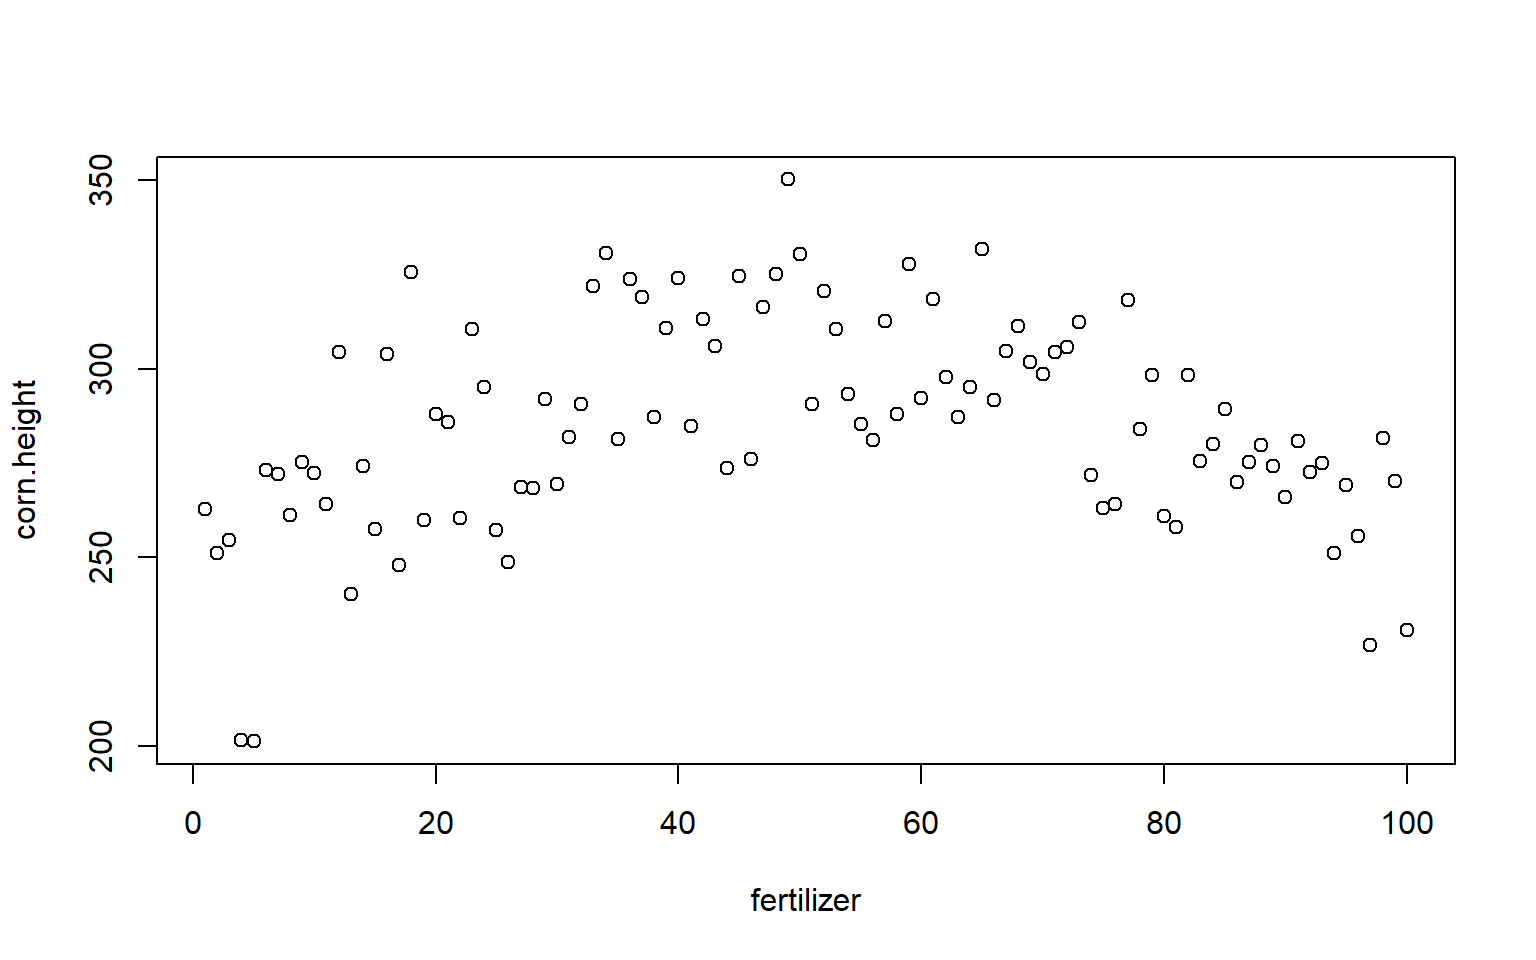
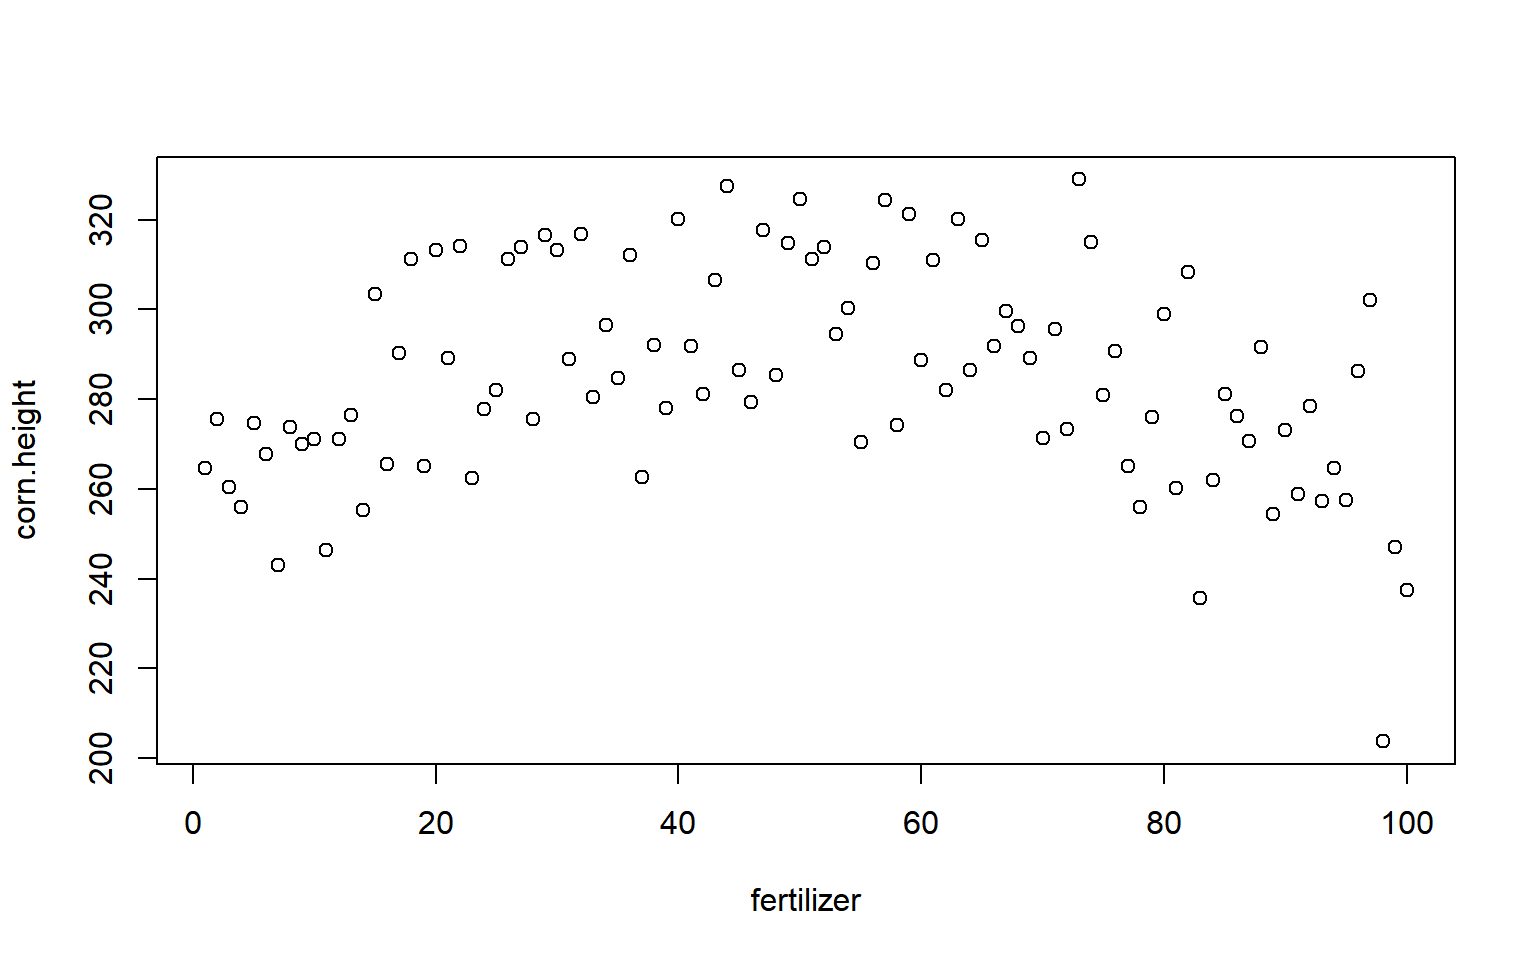
p-061

diff --git a/p-061-plot-basics.html b/p-061-plot-basics.html
@@ -208,15 +208,14 @@ $(document).ready(function () {
 <div id="TOC">
 <ul>
 <li><a href="#the-plot-function"><span class="toc-section-number">1</span> The plot() Function</a><ul>
-<li><a href="#key-concepts"><span class="toc-section-number">1.1</span> Key Concepts</a></li>
-<li><a href="#plot-arguments"><span class="toc-section-number">1.2</span> plot() Arguments</a></li>
-<li><a href="#the-default-scatterplot"><span class="toc-section-number">1.3</span> The Default Scatterplot</a></li>
-<li><a href="#titles"><span class="toc-section-number">1.4</span> Titles</a></li>
-<li><a href="#type-of-plot"><span class="toc-section-number">1.5</span> Type of Plot</a></li>
-<li><a href="#shape-of-points"><span class="toc-section-number">1.6</span> Shape of Points</a></li>
-<li><a href="#size-of-points"><span class="toc-section-number">1.7</span> Size of Points</a></li>
-<li><a href="#colors"><span class="toc-section-number">1.8</span> Colors</a></li>
-<li><a href="#looking-ahead"><span class="toc-section-number">1.9</span> Looking Ahead</a></li>
+<li><a href="#plot-arguments"><span class="toc-section-number">1.1</span> plot() Arguments</a></li>
+<li><a href="#the-default-scatterplot"><span class="toc-section-number">1.2</span> The Default Scatterplot</a></li>
+<li><a href="#titles"><span class="toc-section-number">1.3</span> Titles</a></li>
+<li><a href="#type-of-plot"><span class="toc-section-number">1.4</span> Type of Plot</a></li>
+<li><a href="#shape-of-points"><span class="toc-section-number">1.5</span> Shape of Points</a></li>
+<li><a href="#size-of-points"><span class="toc-section-number">1.6</span> Size of Points</a></li>
+<li><a href="#colors"><span class="toc-section-number">1.7</span> Colors</a></li>
+<li><a href="#looking-ahead"><span class="toc-section-number">1.8</span> Looking Ahead</a></li>
 </ul></li>
 </ul>
 </div>
@@ -224,14 +223,38 @@ $(document).ready(function () {
 <script src="https://cdn.datacamp.com/datacamp-light-latest.min.js"></script>
 <div id="the-plot-function" class="section level1">
 <h1><span class="header-section-number">1</span> The plot() Function</h1>
+<div class="tip">
+<h3 id="key-concepts"><span class="header-section-number">1</span> Key Concepts</h3>
+<p>We can create highly-customized scatterplots by mastering a few arguments:</p>
+<ul>
+<li>xlim, ylim - min and max values for the x and y plot range displayed<br />
+</li>
+<li>frame.plot - change to FALSE to suppress a box drawn around the plot</li>
+<li>col - the colors of the plotting points<br />
+</li>
+<li>type - the style of plot: points, lines, or both</li>
+<li>pch - the shape of the plotting points</li>
+<li>cex - the size of the plotting points</li>
+<li>main - the title of the plot</li>
+<li>xlab, ylab - axes labels<br />
+</li>
+<li>cex.lab - the size of axes labels</li>
+</ul>
+<p>These are some of the most useful arguments for the plot() function, but only a small sample of settings that you can change.</p>
+<p>Try <strong>help( “par” )</strong> for a more extensive list.</p>
+<p><br>
+<br></p>
+</div>
+<p><br>
+<br></p>
 <div class="figure"><span id="fig:unnamed-chunk-3"></span>
 <img src="figures/anatomy_of_a_graph1.png" alt="The core graphics package allows you to control every element of a visualization." width="80%" />
 <p class="caption">
 Figure 1.1: The core graphics package allows you to control every element of a visualization.
 </p>
 </div>
-<div id="key-concepts" class="section level2">
-<h2><span class="header-section-number">1.1</span> Key Concepts</h2>
+<p><br>
+<br></p>
 <p>Mastering a few arguments in the <strong>plot()</strong> function allows for a lot of customization.</p>
 <pre class="r"><code>plot(
   
@@ -250,16 +273,15 @@ Figure 1.1: The core graphics package allows you to control every element of a v
   cex.lab=1.5            # aspect ratio for axes labels
   
   )</code></pre>
-</div>
+<p><img src="p-061-plot-basics_files/figure-html/unnamed-chunk-5-1.png" width="768" /></p>
 <div id="plot-arguments" class="section level2">
-<h2><span class="header-section-number">1.2</span> plot() Arguments</h2>
+<h2><span class="header-section-number">1.1</span> plot() Arguments</h2>
 <p>This lecture is a brief introduction to the plot() function in R, the work horse of the graphics package. We will introduce the flexibility of the fully-customizable graphics engine in R through the demonstration of some useful arguments.</p>
 <p>To demonstrate these arguments we will use a simple dataset from a hypothetical farming experiment that examines the relationship between levels of new fertilizer under development and the height of the corn. To identify the optimal dosage of fertilizer to use, the experiment applies different levels to separate fields of corn, then measures the average final corn height at each dosage. The fields are scattered across three farms, and “moisture” represents the average Volumetric Water Content of the soil in each field.</p>
 <p>You can load it as follows:</p>
 <pre class="r"><code>source( &quot;https://raw.githubusercontent.com/DS4PS/Data-Science-Class/master/DATA/corn_stalks.R&quot; )</code></pre>
-<table style="width:75%;">
+<table style="width:62%;">
 <colgroup>
-<col width="12%" />
 <col width="18%" />
 <col width="19%" />
 <col width="15%" />
@@ -267,7 +289,6 @@ Figure 1.1: The core graphics package allows you to control every element of a v
 </colgroup>
 <thead>
 <tr class="header">
-<th align="center"> </th>
 <th align="center">fertilizer</th>
 <th align="center">corn.height</th>
 <th align="center">moisture</th>
@@ -276,74 +297,64 @@ Figure 1.1: The core graphics package allows you to control every element of a v
 </thead>
 <tbody>
 <tr class="odd">
-<td align="center"><strong>74</strong></td>
-<td align="center">74</td>
-<td align="center">271.8</td>
-<td align="center">0.6507</td>
-<td align="center">A</td>
-</tr>
-<tr class="even">
-<td align="center"><strong>62</strong></td>
-<td align="center">62</td>
-<td align="center">297.9</td>
-<td align="center">0.04027</td>
-<td align="center">C</td>
-</tr>
-<tr class="odd">
-<td align="center"><strong>45</strong></td>
-<td align="center">45</td>
-<td align="center">324.5</td>
-<td align="center">0.5317</td>
-<td align="center">A</td>
-</tr>
-<tr class="even">
-<td align="center"><strong>26</strong></td>
-<td align="center">26</td>
-<td align="center">248.9</td>
-<td align="center">0.4743</td>
-<td align="center">A</td>
-</tr>
-<tr class="odd">
-<td align="center"><strong>3</strong></td>
-<td align="center">3</td>
-<td align="center">254.6</td>
-<td align="center">0.7559</td>
+<td align="center">76</td>
+<td align="center">256</td>
+<td align="center">0.47</td>
 <td align="center">C</td>
 </tr>
 <tr class="even">
-<td align="center"><strong>91</strong></td>
-<td align="center">91</td>
-<td align="center">280.7</td>
-<td align="center">0.8079</td>
-<td align="center">C</td>
-</tr>
-<tr class="odd">
-<td align="center"><strong>96</strong></td>
-<td align="center">96</td>
-<td align="center">255.8</td>
-<td align="center">0.89</td>
-<td align="center">C</td>
-</tr>
-<tr class="even">
-<td align="center"><strong>90</strong></td>
-<td align="center">90</td>
-<td align="center">266.1</td>
-<td align="center">0.5377</td>
-<td align="center">A</td>
-</tr>
-<tr class="odd">
-<td align="center"><strong>75</strong></td>
-<td align="center">75</td>
-<td align="center">263</td>
-<td align="center">0.468</td>
-<td align="center">A</td>
-</tr>
-<tr class="even">
-<td align="center"><strong>35</strong></td>
-<td align="center">35</td>
-<td align="center">281.4</td>
-<td align="center">0.3609</td>
+<td align="center">22</td>
+<td align="center">300</td>
+<td align="center">0.5</td>
 <td align="center">B</td>
+</tr>
+<tr class="odd">
+<td align="center">25</td>
+<td align="center">323</td>
+<td align="center">0.6</td>
+<td align="center">C</td>
+</tr>
+<tr class="even">
+<td align="center">29</td>
+<td align="center">287</td>
+<td align="center">0.4</td>
+<td align="center">C</td>
+</tr>
+<tr class="odd">
+<td align="center">69</td>
+<td align="center">306</td>
+<td align="center">0.51</td>
+<td align="center">A</td>
+</tr>
+<tr class="even">
+<td align="center">24</td>
+<td align="center">258</td>
+<td align="center">0.76</td>
+<td align="center">C</td>
+</tr>
+<tr class="odd">
+<td align="center">60</td>
+<td align="center">311</td>
+<td align="center">0.07</td>
+<td align="center">B</td>
+</tr>
+<tr class="even">
+<td align="center">7</td>
+<td align="center">257</td>
+<td align="center">0.47</td>
+<td align="center">A</td>
+</tr>
+<tr class="odd">
+<td align="center">81</td>
+<td align="center">247</td>
+<td align="center">0.57</td>
+<td align="center">A</td>
+</tr>
+<tr class="even">
+<td align="center">92</td>
+<td align="center">241</td>
+<td align="center">0.74</td>
+<td align="center">C</td>
 </tr>
 </tbody>
 </table>
@@ -358,14 +369,14 @@ eyJsYW5ndWFnZSI6InIiLCJwcmVfZXhlcmNpc2VfY29kZSI6InNvdXJjZSggXCJodHRwczovL3Jhdy5n
 </div>
 </div>
 <div id="the-default-scatterplot" class="section level2">
-<h2><span class="header-section-number">1.3</span> The Default Scatterplot</h2>
+<h2><span class="header-section-number">1.2</span> The Default Scatterplot</h2>
 <p>The default <strong>plot()</strong> function requires an x-variable and y-variable and will create a scatterplot, adding axes and a title:</p>
 <pre class="r"><code>plot( x=fertilizer, y=corn.height )</code></pre>
-<p><img src="p-061-plot-basics_files/figure-html/unnamed-chunk-10-1.png" width="768" /></p>
+<p><img src="p-061-plot-basics_files/figure-html/unnamed-chunk-11-1.png" width="768" /></p>
 <p>Ok, so let’s improve upon this a bit. You can use the following arguments to customize the plot:</p>
 </div>
 <div id="titles" class="section level2">
-<h2><span class="header-section-number">1.4</span> Titles</h2>
+<h2><span class="header-section-number">1.3</span> Titles</h2>
 <p>We can add better labels and a title with <strong>xlab=</strong>, <strong>ylab=</strong>, and <strong>main=</strong>.</p>
 <pre class="r"><code>plot( 
       x=fertilizer, y=corn.height,
@@ -373,7 +384,7 @@ eyJsYW5ndWFnZSI6InIiLCJwcmVfZXhlcmNpc2VfY29kZSI6InNvdXJjZSggXCJodHRwczovL3Jhdy5n
       ylab=&quot;Corn Height (cm)&quot;,
       main=&quot;Relationship Between Fertilizer Intensity and Corn Growth&quot;    
     )</code></pre>
-<p><img src="p-061-plot-basics_files/figure-html/unnamed-chunk-11-1.png" width="768" /></p>
+<p><img src="p-061-plot-basics_files/figure-html/unnamed-chunk-12-1.png" width="768" /></p>
 <p>We can also change their size with <strong>cex.lab=</strong> to control the size of the axes labels, and <strong>cex.main=</strong> to control the size of the title.</p>
 <p>Note that all of the <strong>cex</strong> arguments are aspect ratios, meaning that the default value of 1 represents 100% and all other argument values are in relation to this default. A value of 2 means to increase the title to 200% of the size, an argument of 0.5 shrinks the title to half the original size.</p>
 <pre class="r"><code>plot( 
@@ -384,10 +395,10 @@ eyJsYW5ndWFnZSI6InIiLCJwcmVfZXhlcmNpc2VfY29kZSI6InNvdXJjZSggXCJodHRwczovL3Jhdy5n
       cex.lab=2,               # double the size of the axis labels
       col.lab=&quot;steelblue&quot;      # change color of axis labels
     )</code></pre>
-<p><img src="p-061-plot-basics_files/figure-html/unnamed-chunk-13-1.png" width="480" /><img src="p-061-plot-basics_files/figure-html/unnamed-chunk-13-2.png" width="480" /><img src="p-061-plot-basics_files/figure-html/unnamed-chunk-13-3.png" width="480" /></p>
+<p><img src="p-061-plot-basics_files/figure-html/unnamed-chunk-14-1.png" width="480" /><img src="p-061-plot-basics_files/figure-html/unnamed-chunk-14-2.png" width="480" /><img src="p-061-plot-basics_files/figure-html/unnamed-chunk-14-3.png" width="480" /></p>
 </div>
 <div id="type-of-plot" class="section level2">
-<h2><span class="header-section-number">1.5</span> Type of Plot</h2>
+<h2><span class="header-section-number">1.4</span> Type of Plot</h2>
 <p>We can plot points, lines, or some combination of lines and points using the <strong>type=</strong> argument:</p>
 <ul>
 <li>“l” for lines</li>
@@ -406,12 +417,12 @@ eyJsYW5ndWFnZSI6InIiLCJwcmVfZXhlcmNpc2VfY29kZSI6InNvdXJjZSggXCJodHRwczovL3Jhdy5n
       col.axis=&quot;gray60&quot;,
       frame.plot=F
     )</code></pre>
-<p><img src="p-061-plot-basics_files/figure-html/unnamed-chunk-15-1.png" width="960" /></p>
+<p><img src="p-061-plot-basics_files/figure-html/unnamed-chunk-16-1.png" width="960" /></p>
 </div>
 <div id="shape-of-points" class="section level2">
-<h2><span class="header-section-number">1.6</span> Shape of Points</h2>
+<h2><span class="header-section-number">1.5</span> Shape of Points</h2>
 <p>The argument <strong>pch</strong> determines the shape of the plot points. The numeric values 0 to 25 represent different default shapes. We can also use any number, letter, or symbol as a plotting shape.</p>
-<p><img src="p-061-plot-basics_files/figure-html/unnamed-chunk-16-1.png" width="768" /></p>
+<p><img src="p-061-plot-basics_files/figure-html/unnamed-chunk-17-1.png" width="768" /></p>
 <p>Note that shapes 0 to 14 are hollow, 15 to 20 are solid, and 21 to 25 can also plot a background color specified by the <strong>bg=</strong> argument.</p>
 <pre class="r"><code>plot( 
       x=fertilizer, y=corn.height,
@@ -421,10 +432,10 @@ eyJsYW5ndWFnZSI6InIiLCJwcmVfZXhlcmNpc2VfY29kZSI6InNvdXJjZSggXCJodHRwczovL3Jhdy5n
       main=&quot;pch=23&quot;, cex.main=1.5,
       pch=23, col=&quot;red&quot;, bg=&quot;green&quot;
     )</code></pre>
-<p><img src="p-061-plot-basics_files/figure-html/unnamed-chunk-17-1.png" width="768" /></p>
+<p><img src="p-061-plot-basics_files/figure-html/unnamed-chunk-18-1.png" width="768" /></p>
 </div>
 <div id="size-of-points" class="section level2">
-<h2><span class="header-section-number">1.7</span> Size of Points</h2>
+<h2><span class="header-section-number">1.6</span> Size of Points</h2>
 <p>We change the size of points using the <strong>cex=</strong> argument (pronounced “chex”). Similar to the title cex, it is an aspect ratio so cex=2 increases the size of the plotting points to 200% of the original, and cex=0.5 scales the size down to half of the original size.</p>
 <pre class="r"><code>plot( 
       x=fertilizer, y=corn.height,
@@ -435,7 +446,7 @@ eyJsYW5ndWFnZSI6InIiLCJwcmVfZXhlcmNpc2VfY29kZSI6InNvdXJjZSggXCJodHRwczovL3Jhdy5n
       main=&quot;cex=2&quot;, cex.main=2,
       frame.plot=FALSE
     )</code></pre>
-<p><img src="p-061-plot-basics_files/figure-html/unnamed-chunk-19-1.png" width="480" /><img src="p-061-plot-basics_files/figure-html/unnamed-chunk-19-2.png" width="480" /><img src="p-061-plot-basics_files/figure-html/unnamed-chunk-19-3.png" width="480" /></p>
+<p><img src="p-061-plot-basics_files/figure-html/unnamed-chunk-20-1.png" width="480" /><img src="p-061-plot-basics_files/figure-html/unnamed-chunk-20-2.png" width="480" /><img src="p-061-plot-basics_files/figure-html/unnamed-chunk-20-3.png" width="480" /></p>
 <p>The <strong>cex=</strong> argument is also useful for incorporating a third numeric variable into the analysis. For example, perhaps we want to include the average moisture levels of the soil for each field. When we use a numeric vector like this with the <strong>cex=</strong> argument, instead of a single constant, the plot will adjust the size of observation based upon its measured moisture level. Since moisture values are between 0 and 1, I have scaled them by 3 to ensure the points are large enough to see.</p>
 <pre class="r"><code>plot( 
       x=fertilizer, y=corn.height,
@@ -446,10 +457,10 @@ eyJsYW5ndWFnZSI6InIiLCJwcmVfZXhlcmNpc2VfY29kZSI6InNvdXJjZSggXCJodHRwczovL3Jhdy5n
       ylab=&quot;Corn Height (cm)&quot;,
       main=&quot;Relationship Between Fertilizer Intensity and Corn Growth&quot;
     )</code></pre>
-<p><img src="p-061-plot-basics_files/figure-html/unnamed-chunk-20-1.png" width="768" /></p>
+<p><img src="p-061-plot-basics_files/figure-html/unnamed-chunk-21-1.png" width="768" /></p>
 </div>
 <div id="colors" class="section level2">
-<h2><span class="header-section-number">1.8</span> Colors</h2>
+<h2><span class="header-section-number">1.7</span> Colors</h2>
 <p>The argument <strong>col=</strong> determines the color of plot points. To see a list of preset options check out:</p>
 <p><a href="http://www.stat.columbia.edu/~tzheng/files/Rcolor.pdf">List of default named colors in R</a></p>
 <pre class="r"><code>plot( 
@@ -460,7 +471,7 @@ eyJsYW5ndWFnZSI6InIiLCJwcmVfZXhlcmNpc2VfY29kZSI6InNvdXJjZSggXCJodHRwczovL3Jhdy5n
       main=&quot;Relationship Between Fertilizer Intensity and Corn Growth&quot;,
       frame.plot=FALSE
     )</code></pre>
-<p><img src="p-061-plot-basics_files/figure-html/unnamed-chunk-21-1.png" width="768" /></p>
+<p><img src="p-061-plot-basics_files/figure-html/unnamed-chunk-22-1.png" width="768" /></p>
 <p>In the example above we specified a single color for all of our corn heights. If we want to incorporate a third categorical variable in our analysis, we can use a factor in our dataset as the value we pass to the <strong>col=</strong> argument. For example, perhaps we want to indicate which farm each field belongs to in the graph.</p>
 <pre class="r"><code>plot( 
       x=fertilizer, y=corn.height,
@@ -471,7 +482,7 @@ eyJsYW5ndWFnZSI6InIiLCJwcmVfZXhlcmNpc2VfY29kZSI6InNvdXJjZSggXCJodHRwczovL3Jhdy5n
       main=&quot;Relationship Between Fertilizer Intensity and Corn Growth&quot;,
       frame.plot=FALSE
     )</code></pre>
-<p><img src="p-061-plot-basics_files/figure-html/unnamed-chunk-22-1.png" width="768" /></p>
+<p><img src="p-061-plot-basics_files/figure-html/unnamed-chunk-23-1.png" width="768" /></p>
 <p>Note that “farms” has to be a factor in order to use it in the <strong>col=</strong> argument. In this example, the farms have labels of “A” to “C”.</p>
 <pre class="r"><code>levels( farm )</code></pre>
 <pre><code>## [1] &quot;A&quot; &quot;B&quot; &quot;C&quot;</code></pre>
@@ -492,10 +503,10 @@ plot(
       main=&quot;Relationship Between Fertilizer Intensity and Corn Growth&quot;,
       frame.plot=FALSE
     )</code></pre>
-<p><img src="p-061-plot-basics_files/figure-html/unnamed-chunk-25-1.png" width="768" /></p>
+<p><img src="p-061-plot-basics_files/figure-html/unnamed-chunk-26-1.png" width="768" /></p>
 </div>
 <div id="looking-ahead" class="section level2">
-<h2><span class="header-section-number">1.9</span> Looking Ahead</h2>
+<h2><span class="header-section-number">1.8</span> Looking Ahead</h2>
 <p>In the next section, we will add some lines, points, and text to the plot.</p>
 <p>We can add lines to highlight trends (a regression is just the average of Y at each level of X).</p>
 <pre class="r"><code>plot( 
@@ -510,7 +521,7 @@ plot(
     )
 
 lines( lowess( fertilizer, corn.height ), col=&quot;darkgoldenrod2&quot;, lwd=4 )</code></pre>
-<p><img src="p-061-plot-basics_files/figure-html/unnamed-chunk-26-1.png" width="768" /></p>
+<p><img src="p-061-plot-basics_files/figure-html/unnamed-chunk-27-1.png" width="768" /></p>
 <p>In order to add narrative to your graphs, you can add points and text.</p>
 <p>The <strong>points()</strong> function operates with basically the same parameters as the <strong>plot()</strong> function. The <strong>text()</strong> function uses the same X and Y coordinates, but you also have to add an argument for the text that you want added to the plot.</p>
 <p>Let’s highlight the tallest corn stalk as an example.</p>
@@ -522,7 +533,7 @@ points( x=tallest.x, y=tallest.y, cex=3, lwd=1.5, col=&quot;firebrick4&quot; )
 text( x=tallest.x, y=tallest.y, 
       labels=&quot;Tallest Stalk&quot;, 
       pos=3, offset=1, col=&quot;firebrick4&quot; )</code></pre>
-<p><img src="p-061-plot-basics_files/figure-html/unnamed-chunk-28-1.png" width="768" /></p>
+<p><img src="p-061-plot-basics_files/figure-html/unnamed-chunk-29-1.png" width="768" /></p>
 </div>
 </div>
 

diff --git a/textbook.css b/textbook.css
@@ -292,7 +292,8 @@ article header{margin-bottom:1.5em}
   left: 0;
   right: 0;
   width: 100%;
-  margin-top:80px; }
+  margin-top:100px; 
+}
 .footer a{ color:orange; text-decoration:bold !important; } 
  
   
